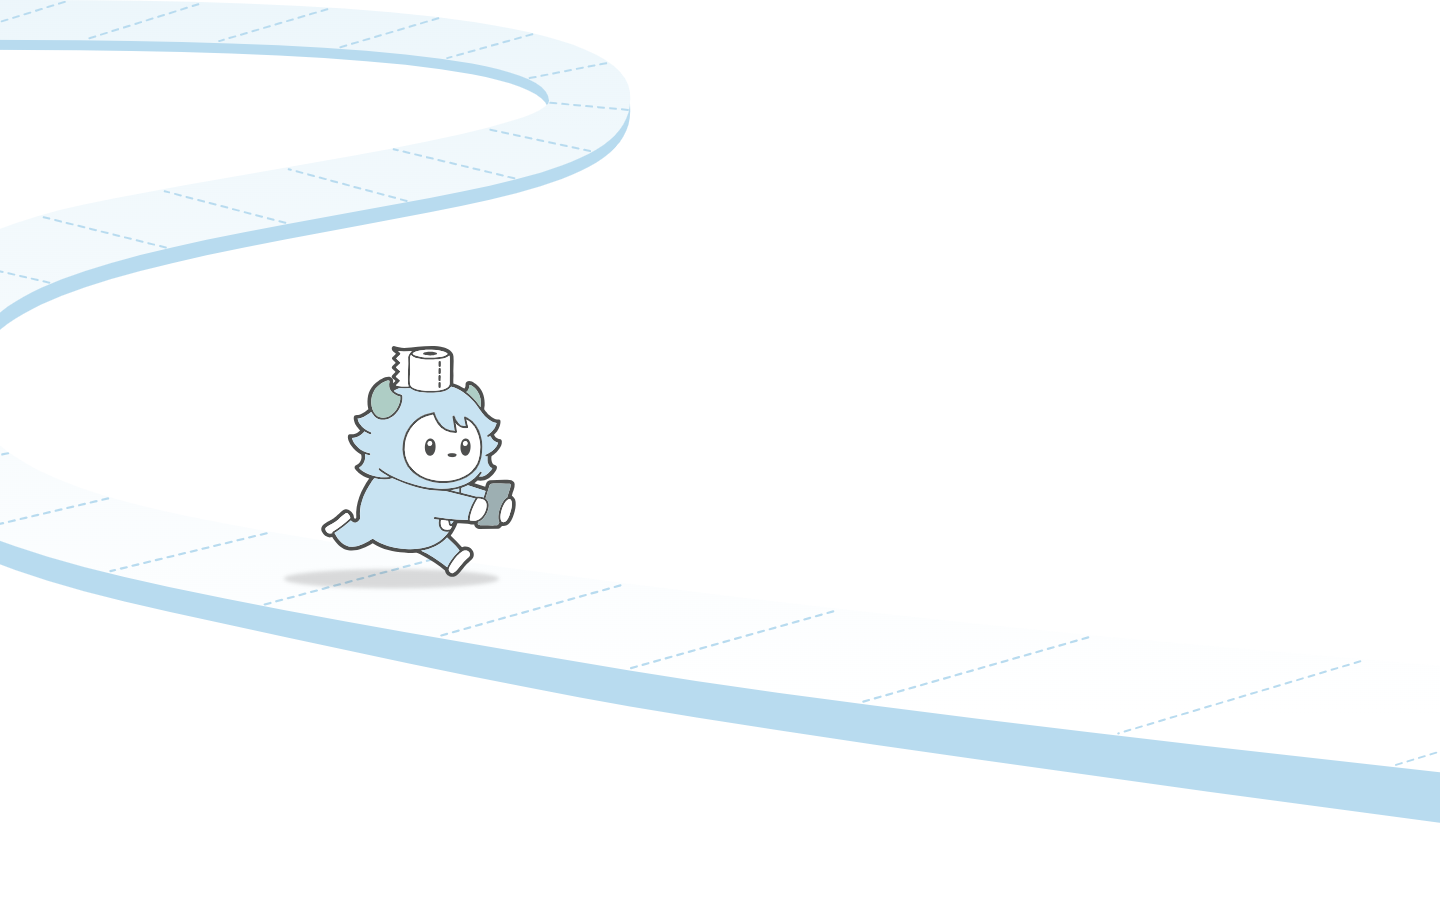
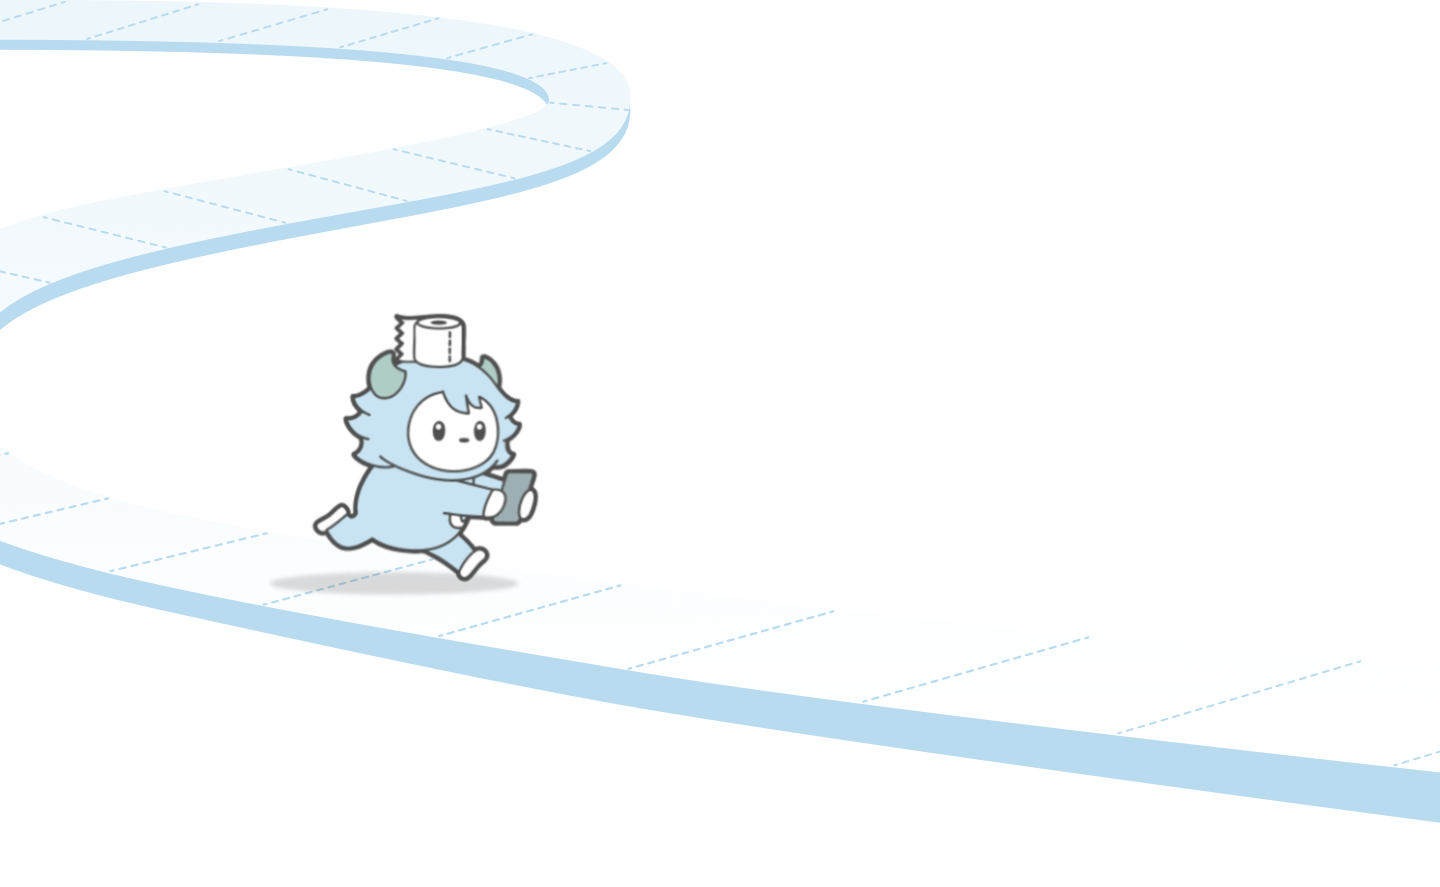
prev23

diff --git a/src/components/Home/Work.jsx b/src/components/Home/Work.jsx
@@ -12,20 +12,19 @@ const Work = () => {
     return (
         <>
             {/* ===== Desktop / Larger Screens ===== */}
-            <div className="work-container w-full lg:mt-[-13rem] lg:h-[120rem] pt-20 bg-background relative justify-center items-start hidden sm:block">
-                <div className="hidden sm:flex w-[70%] h-[15%] bg-background absolute z-20 lg:top-[15rem] lg:right-[45rem]"></div>
-
+            <div className="work-container w-full lg:mt-[-13rem] lg:h-[120rem]  bg-background relative justify-center items-start hidden sm:block">
                 <motion.img
                     src="/HomeWorkSlide.png"
-                    loading="lazy" 
+                    loading="lazy"
                     alt="slide"
-                    className="work-main-slide w-full h-full object-fill absolute z-30"
+                    className="work-main-slide w-[100vw] h-[130%] object-contain absolute z-30"
                     variants={fadeVariant}
                     initial="hidden"
                     whileInView="visible"
                     exit="exit"
                     viewport={{ once: false, amount: 0.2 }}
                 />
+                <div className="hidden sm:flex w-[70%] h-[15%] bg-background absolute z-20 lg:top-[15rem] lg:right-[45rem]"></div>
 
                 {/* <motion.div
                     className="work-decor-box w-[15%] h-[15%] bg-[#b8dbef] absolute z-20 lg:top-[92rem] lg:left-[62rem] rounded-3xl overflow-hidden flex justify-end items-end"
@@ -51,7 +50,7 @@ const Work = () => {
                         <div className="work-section1-img w-[50%] h-full">
                             <img
                                 src="/HomeMobile.svg"
-                                loading="lazy" 
+                                loading="lazy"
                                 alt="mobile"
                                 className="work-section1-image w-full h-full object-contain"
                             />
@@ -86,7 +85,7 @@ const Work = () => {
                         <div className="work-section2-img w-[50%] h-full">
                             <img
                                 src="/HomeMobile2.svg"
-                                loading="lazy" 
+                                loading="lazy"
                                 alt="Mobile2"
                                 className="work-section2-image w-full h-full object-contain"
                             />
@@ -118,7 +117,7 @@ const Work = () => {
                         <div className="work-section3-img w-[50%] h-full">
                             <img
                                 src="/HomeMobile3.svg"
-                                loading="lazy" 
+                                loading="lazy"
                                 alt="Mobile3"
                                 className="work-section3-image w-full h-full object-contain"
                             />
@@ -155,7 +154,7 @@ const Work = () => {
                         <p className="text-gray-600 text-lg mb-4">
                             Browse the map to find nearby restrooms with details like distance, availability, and amenities.
                         </p>
-                        <img loading="lazy"  src="/HomeMobile.svg" alt="Find" className="rounded-md w-[98%] mb-8" />
+                        <img loading="lazy" src="/HomeMobile.svg" alt="Find" className="rounded-md w-[98%] mb-8" />
                     </div>
                 </motion.div>
 
@@ -170,7 +169,7 @@ const Work = () => {
                         <p className="text-gray-600 text-lg mb-4">
                             At the door, scan the QR code for instant access.
                         </p>
-                        <img loading="lazy"  src="/HomeMobile2.svg" alt="Scan" className="rounded-md w-[98%] mb-8" />
+                        <img loading="lazy" src="/HomeMobile2.svg" alt="Scan" className="rounded-md w-[98%] mb-8" />
                     </div>
                 </motion.div>
 
@@ -185,7 +184,7 @@ const Work = () => {
                         <p className="text-gray-600 text-lg mb-4">
                             When the light blinks green, turn the handle and enjoy a clean, comfortable restroom.
                         </p>
-                        <img loading="lazy"  src="/HomeMobile3.svg" alt="Unlock" className="rounded-md w-[98%] mb-8" />
+                        <img loading="lazy" src="/HomeMobile3.svg" alt="Unlock" className="rounded-md w-[98%] mb-8" />
                     </div>
                 </motion.div>
 
@@ -193,7 +192,7 @@ const Work = () => {
                 <div className="sm:hidden w-[100vw] h-full mt-[-15rem] ml-[-3rem]">
                     <img
                         src="/charslidemobile.png"
-                        loading="lazy" 
+                        loading="lazy"
                         alt="Character Slide"
                         className="w-[100vw] object-cover h-auto"
                     />

diff --git a/src/components/Home/Mirror.jsx b/src/components/Home/Mirror.jsx
@@ -60,13 +60,19 @@ const Mirror = () => {
               src="/mirror thing.svg"
               alt="mirror"
               loading="lazy"
-              className="mirror-svg w-auto h-auto lg:h-[35rem] z-0 object-contain absolute max-w-[1440px]"
+              className="
+    mirror-svg 
+    w-auto 
+    h-[15rem] sm:h-[20rem] md:h-[25rem] lg:h-[30rem] xl:h-[35rem] 2xl:h-[40rem] 
+    z-0 object-contain absolute max-w-[1440px]
+  "
               variants={fadeVariant}
               initial="hidden"
               whileInView="visible"
               exit="exit"
               viewport={{ once: false, amount: 0.2 }}
             />
+
           </motion.div>
 
           {/* Sections */}

diff --git a/src/components/Home/Hero.jsx b/src/components/Home/Hero.jsx
@@ -62,9 +62,11 @@ const Hero = () => {
           </div>
           {/* Text right */}
           <div className="col-span-7 flex flex-col items-start justify-center z-10 ml-[15vw] mt-[-50vh] pl-4">
-            <h1 className="text-primary font-bold text-8xl">
+            <h1 className="text-primary font-bold 
+  text-4xl sm:text-5xl md:text-6xl lg:text-7xl xl:text-8xl">
               Find Your <br /> Restroom
             </h1>
+
             <p className="text-[#4c4c4c] mt-4 text-xl">
               Find. Scan. Unlock
             </p>

diff --git a/src/components/Home/Locations.jsx b/src/components/Home/Locations.jsx
@@ -162,7 +162,7 @@ const Locations = () => {
 
 
             {/* ====== DESKTOP VIEW ====== */}
-            <div className="hidden sm:flex flex-col h-[40rem] items-start w-full max-w-7xl px-8">
+            <div className="hidden sm:flex flex-col h-[40rem] items-start w-full mt-[20%] max-w-7xl px-8">
                 <h1 className="text-5xl font-[#4c4c4c] text-primary mb-6 ml-[6rem]">Locations</h1>
                 <p className="text-lg text-gray-500 mb-8 ml-[6rem]">
                     Discover Yedi in your City
